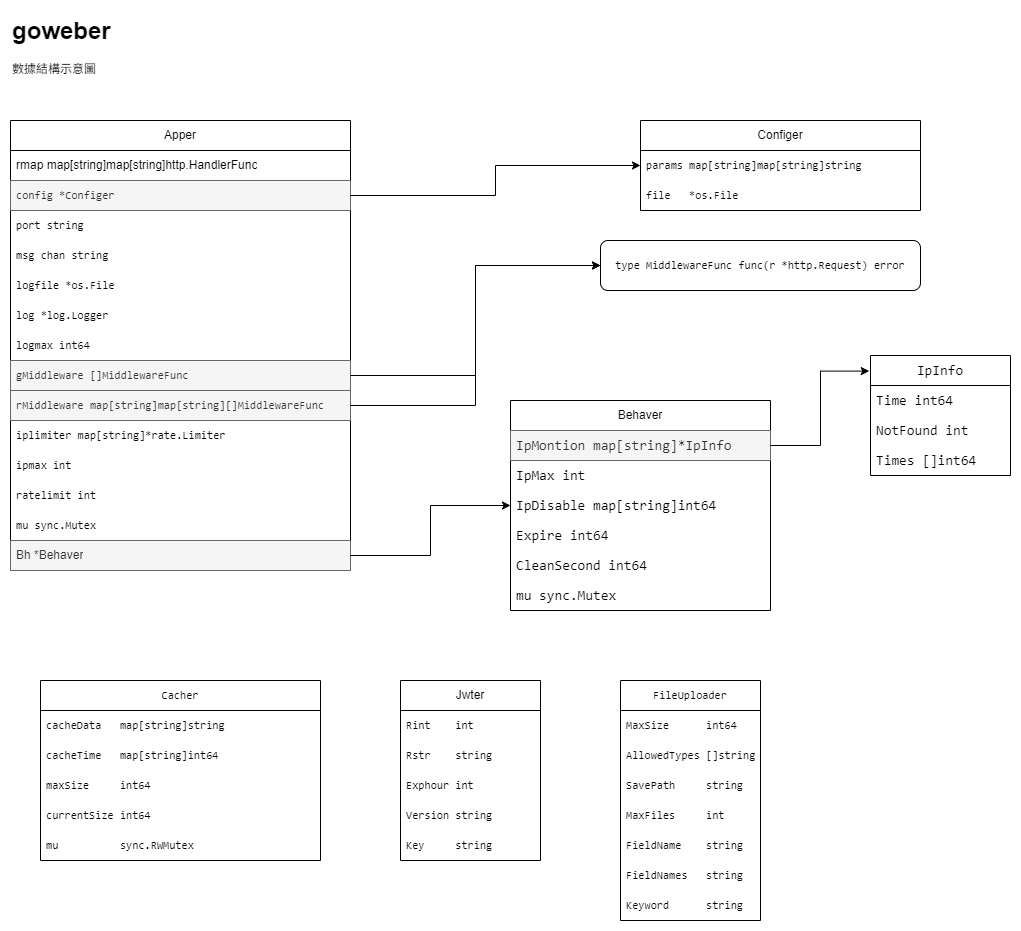
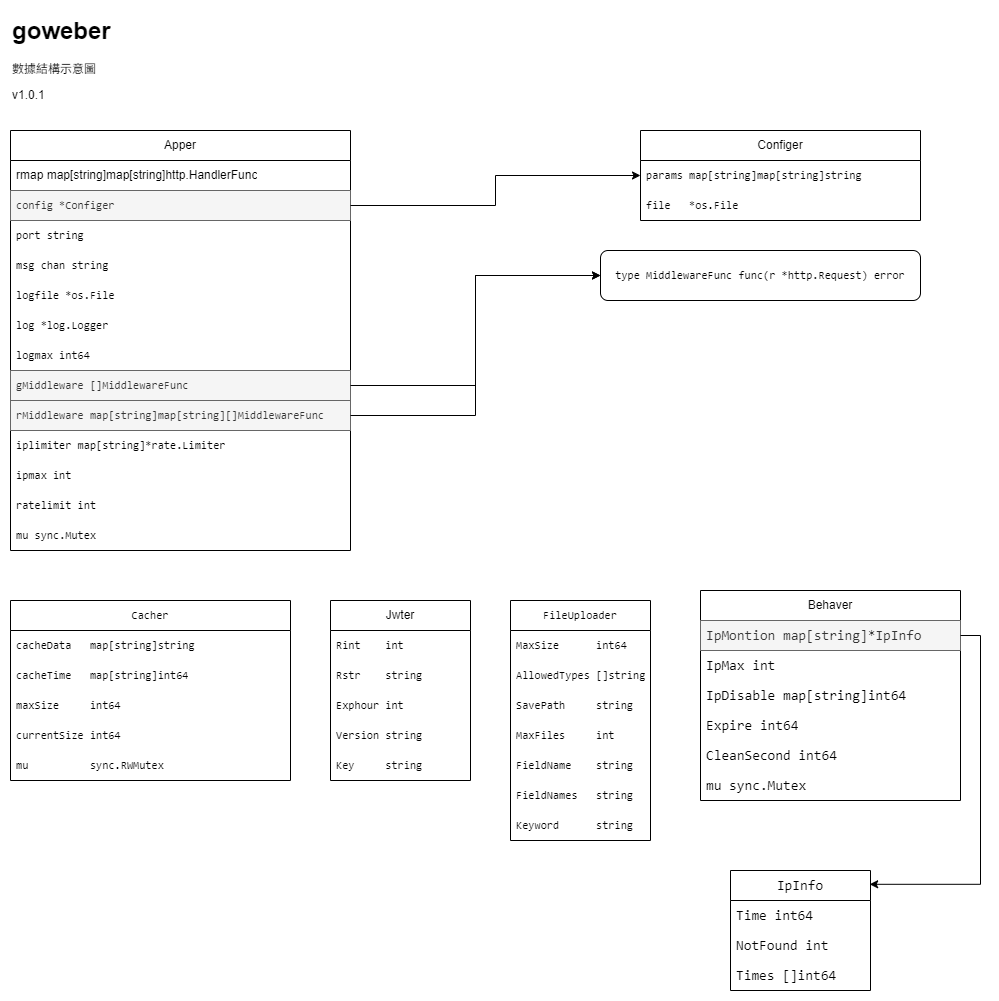
26.1.13.1

diff --git a/apper.go b/apper.go
@@ -59,9 +59,6 @@ type Apper struct {
 	// 鎖
 	// Lock
 	mu sync.Mutex 
-	// 用戶行爲監控
-	// user behavior monitoring
-	Bh *Behaver
 }
 
 // New 创建并初始化一个新的Apper实例
@@ -78,13 +75,11 @@ func New() *Apper {
 		},
 		msg: make(chan string),
 		ratelimit: 100,
-		Bh: NewBehaver(),
 	}
 	app.SetConfig()
 	app.SetLog()
 	app.SetPort()
 	app.SetLimit()
-	app.SetBehaver()
 	return app
 }
 
@@ -156,22 +151,6 @@ func (this *Apper) SetLimit() {
 	}
 	if this.Config.Get("server", "ratelimit") != "" {
 		this.ratelimit,_= strconv.Atoi(this.Config.Get("server", "ratelimit"))
-	}
-}
-
-// SetBehaver
-func (this *Apper) SetBehaver() {
-	if this.Config.Get("behaver", "ipmax") != "" {
-		this.Bh.IpMax,_= strconv.Atoi(this.Config.Get("behaver", "ipmax"))
-	} 
-	if this.Config.Get("behaver", "ipmax") != "" {
-		this.Bh.Expire,_= strconv.ParseInt(this.Config.Get("behaver", "expire"),10,64)
-	}
-	if this.Config.Get("behaver", "cleansecond") != "" {
-		this.Bh.CleanSecond,_= strconv.ParseInt(this.Config.Get("behaver", "cleansecond"),10,64)
-	} 
-	if this.Bh.IpMax > 0 {
-		go this.Bh.Clear()
 	}
 }
 
@@ -310,25 +289,6 @@ func (this *Apper) ServeHTTP(w http.ResponseWriter, r *http.Request) {
 	urlSpit := strings.Split(r.URL.String(), "?")
 	ipaddr := this.GetClientIP(r)
 	
-	// 檢測url
-	// if this.Bh.RegexUrl(r.URL.String()) {
-	// 	this.Bh.Lock(ipaddr)
-	// }
-	// IP行爲判斷
-	if this.Bh.CheckNotFound(ipaddr) {
-		this.Bh.Lock(ipaddr)
-	}
-	if this.Bh.CheckScan(ipaddr) {
-		this.Bh.Lock(ipaddr)
-	}
-	// IP是否鎖定
-	if this.Bh.IsLock(ipaddr) {
-		this.msg <- ipaddr+"被鎖定"
-		http.Error(w, ipaddr+"被鎖定", http.StatusTooManyRequests)
-		return
-	}
-	
-	
 	// * 限流處理
 	// * Rate limiting processing
 	if this.iplimiter!=nil{
@@ -366,11 +326,9 @@ func (this *Apper) ServeHTTP(w http.ResponseWriter, r *http.Request) {
 
 	if h, ok := this.rmap[r.Method][urlSpit[0]]; ok {
 		this.msg <- ipaddr + " " + r.Method + " " + r.URL.String() + " 200 OK"
-		this.Bh.Record(ipaddr,200)
 		h(w, r)
 	} else {
 		this.msg <- ipaddr + " " + r.Method + " " + r.URL.String() + " Not Found 404"
-		this.Bh.Record(ipaddr,404)
 		http.NotFound(w, r)
 	}
 }

diff --git a/apper_test.go b/apper_test.go
@@ -88,14 +88,6 @@ func TestApp(t *testing.T) {
 		}
 		fmt.Fprintf(w, "文件上传成功，保存路径: %v", savePaths)
 	})
-	
-	// * 測試behaver
-	app.Get("/behaver",func(w http.ResponseWriter, r *http.Request) {
-		fmt.Println(app.Bh)
-		fmt.Println(app.Bh.IpMontion["::1"])
-		fmt.Println(app.Bh.IpDisable)
-		fmt.Fprintf(w, "behaver")
-	});
 
 	fmt.Println(app)
 	app.Run()

diff --git a/README.md b/README.md
@@ -8,8 +8,10 @@ goweber是一個GO編寫的WEB框架，主要用於API服務。
 - 配置服务
 - 基於IP的限流
 - 中間件服務，支持全局和路由級
-- 支持JWT
-- 用戶行爲監控
+- 自定義JWT
+- 文件上傳
+- 查詢緩存
+- 用戶行爲監控(實驗項目，未完成)
 
 #### 數據結構
 ![数据结构](docs/structs.drawio.png)
@@ -43,7 +45,7 @@ func main() {
 ```
 
 #### 配置文件
-請保證config.ini在執行文件同目錄下
+請保證config.ini與執行文件同目錄下
 ```ini
 [server]
 # 網站端口
@@ -57,8 +59,6 @@ logmax = 1024000000
 
 # 緩存器，單位Mb
 # Cache, unit Mb
-# apper中有Cache结构指针
-# apper has Cache structure pointer
 cache = 1
 
 # 限流 ipmax監控最大IP數量>0，開啓限流，ratelimit每秒訪問次數
@@ -66,16 +66,16 @@ cache = 1
 ipmax=1000
 ratelimit=10
 
-# apper中有Jwt结构指针
-# apper has Jwt structure pointer
+# 自定義JWT
+# self-defined JWT
 [jwt]
 rint = 1
 rstr = WHSS
 version = V1
 exp = 8
 
-# apper中有File结构指针
-# apper has File structure pointer
+# 文件上傳
+# File upload
 [file]
 # 单位MB
 # Unit MB
@@ -89,17 +89,4 @@ path = ./files
 # 文件类型
 # File types
 type = .jpg,.png
-
-# 用戶行爲監控
-# user behaver monitor
-[behaver]
-# 最大監控IP數量, 0表示不監控
-# Maximum monitoring IP quantity, 0 means not monitored
-ipmax = 1000
-# 監控IP過期時間，秒
-# Monitoring IP expiration time, seconds
-expire = 300
-# 監控IP清理間隔，秒
-# Monitoring IP cleanup interval, seconds
-cleansecond = 300
 ```